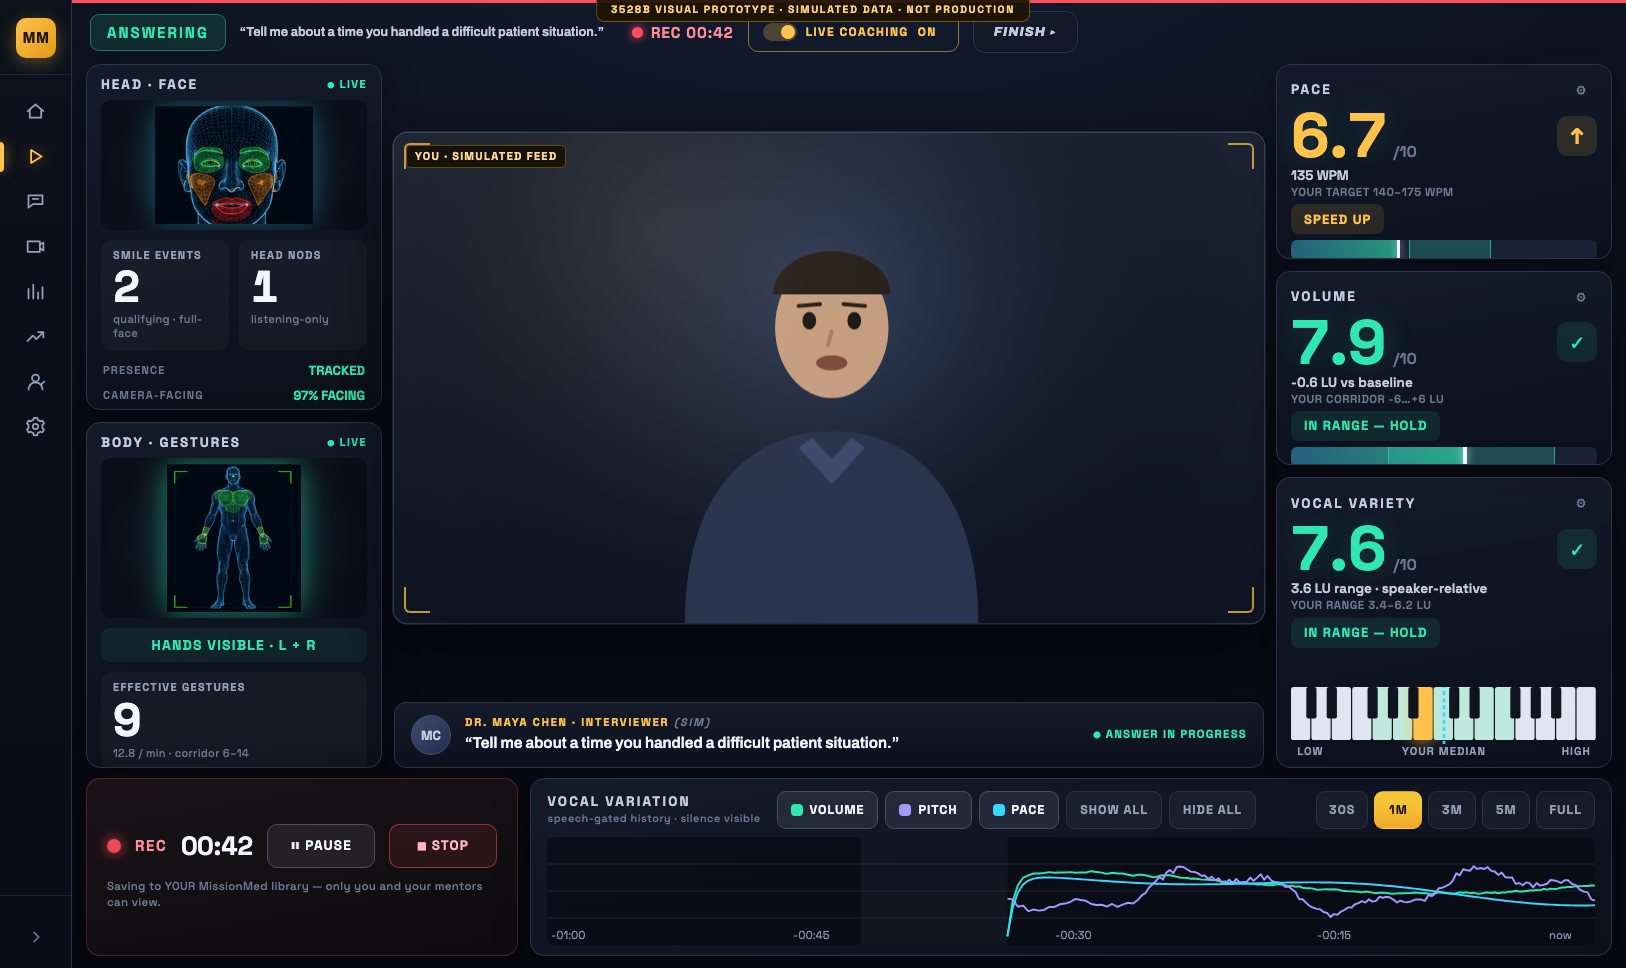
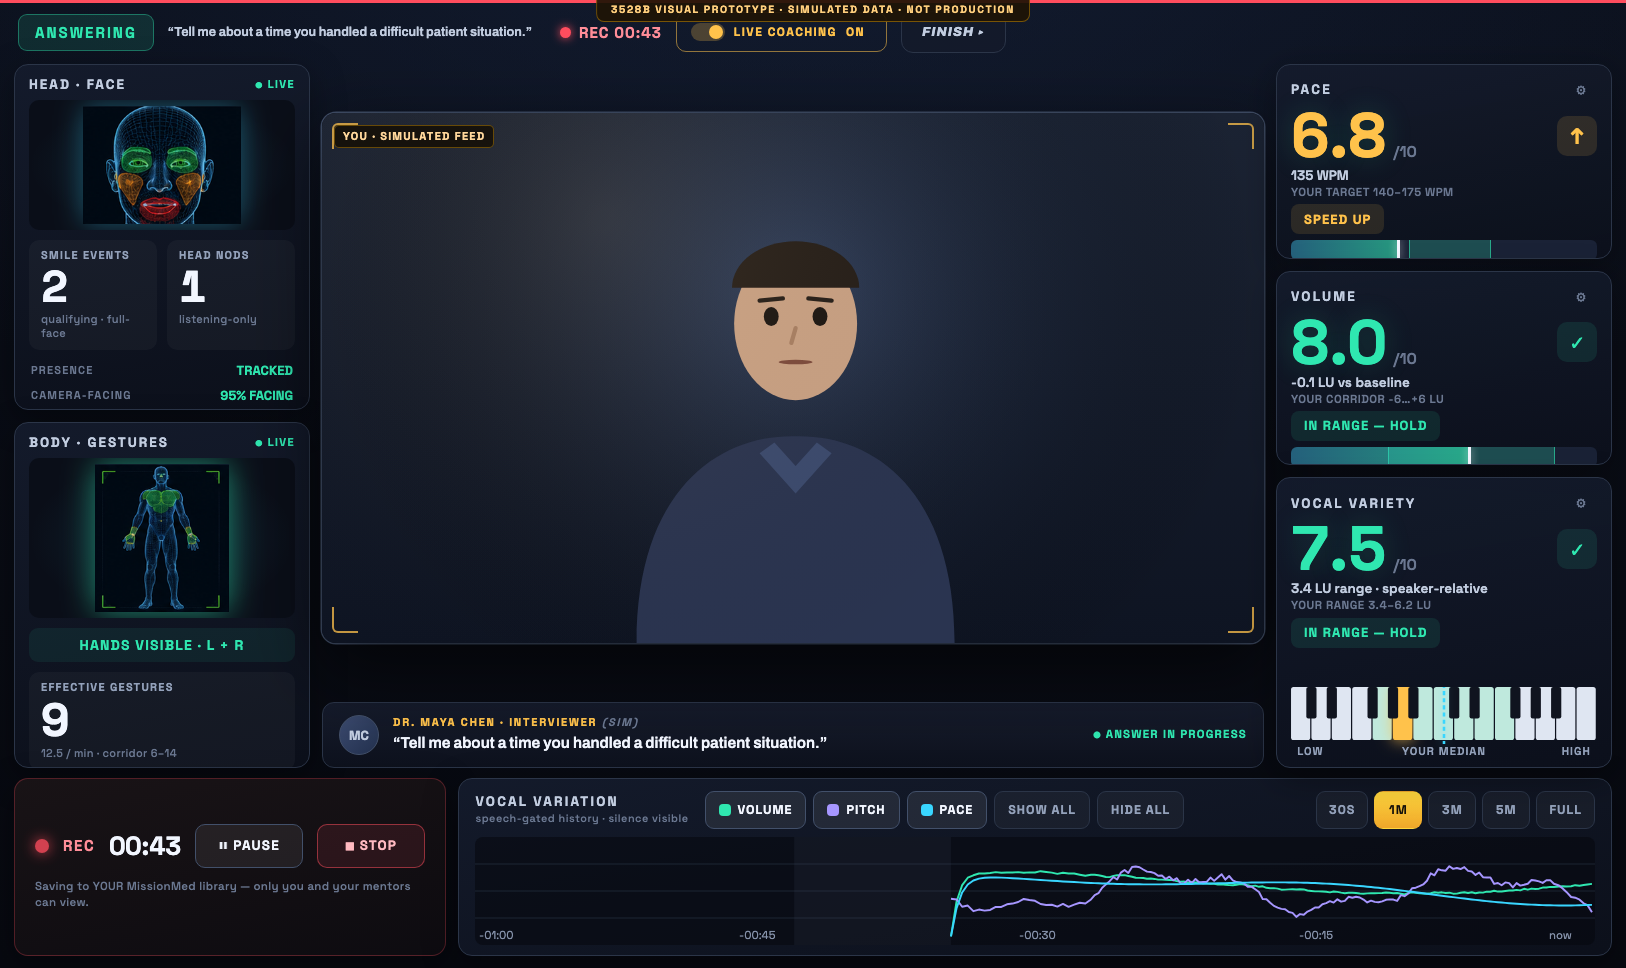
fix(ivprep): 3528B hide nav rail entirely during live interview
Founder directive: no left menu chrome in the runtime room. Rail is
railHidden on #/live (width 0); exits remain FINISH and Esc pause menu;
rail returns on processing/results. Evidence capture refreshed.

diff --git a/_AI_HANDOFFS/from_claude_code/Y1-Y2-CAM-V6-3528B_AAA_GAME_EXPERIENCE_VISUAL_REBUILD/PROTOTYPE/styles/shell.css b/_AI_HANDOFFS/from_claude_code/Y1-Y2-CAM-V6-3528B_AAA_GAME_EXPERIENCE_VISUAL_REBUILD/PROTOTYPE/styles/shell.css
@@ -43,6 +43,7 @@
   position: relative;
 }
 #rail.min { width: var(--nav-w-min); }
+#rail.gone { width: 0; min-width: 0; border-right: none; }
 
 .rail-brand {
   display: flex; align-items: center; gap: 12px;

diff --git a/_AI_HANDOFFS/from_claude_code/Y1-Y2-CAM-V6-3528B_AAA_GAME_EXPERIENCE_VISUAL_REBUILD/Y1-Y2-CAM-V6-3528B_CLAUDE_CODE_HANDOFF.md b/_AI_HANDOFFS/from_claude_code/Y1-Y2-CAM-V6-3528B_AAA_GAME_EXPERIENCE_VISUAL_REBUILD/Y1-Y2-CAM-V6-3528B_CLAUDE_CODE_HANDOFF.md
@@ -88,6 +88,9 @@ with the rail auto-collapsed. Menu screens fluid across the same set.
 ## Interaction model delivered
 - Controller grammar: arrow-key spatial focus, Enter activates, Esc = back / pause menu
   (in-room: RESUME / END & SAVE), focus ring + white-frame card focus everywhere.
+- Left nav rail: expanded/collapsible in all menus; icon rail on READY; **fully hidden
+  during the live interview** (Founder directive 2026-08-29 — the room owns the full
+  width; exits are FINISH and the Esc pause menu, and the rail returns on Results).
 - Zero required typing (only optional session-title rename).
 - Back/Next footer on every multi-step screen; refresh restores state; a live-session
   refresh lands on the RECOVERY screen (save-partial / resume-setup / discard).
